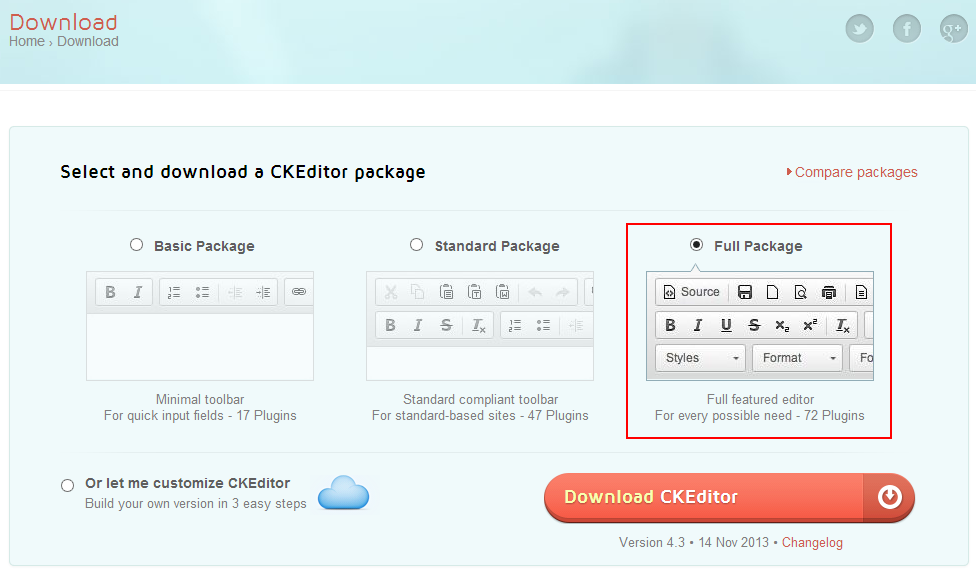
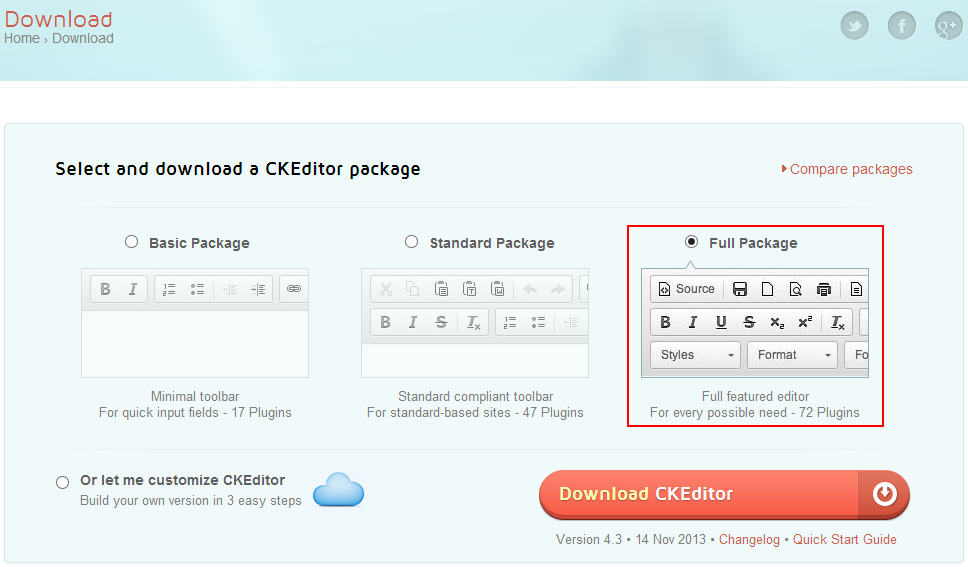
Screenshot and download link for Quick Start Guide.

diff --git a/guides/dev/installation/README.md b/guides/dev/installation/README.md
@@ -6,7 +6,7 @@ The aim of this article is to get you up and running with CKEditor in two minute
 
 Visit the official [CKEditor Download](http://ckeditor.com/download) site. For a complete editing experience choose the **Full Package** and click the **Download CKEditor** button to get the `.zip` installation file.
 
-<img src="guides/dev_installation/ckeditor_quick_start_download.png" alt="CKEditor Download site" width="780" height="460">
+<a href="http://ckeditor.com/download" target="_blank"><img src="guides/dev_installation/ckeditor_quick_start_download.png" alt="CKEditor Download site" width="774" height="454"></a>
 
 ## Unpacking
 
@@ -14,7 +14,7 @@ Unpack (extract) the downloaded `.zip` archive to the `ckeditor` directory in th
 
 ## Trying Out
 
-CKEditor comes with a collection of samples that you can try out to verify if the installation was successful as well as see some both basic and more advanced CKEditor usage scenarios.
+CKEditor comes with a collection of samples that you can try out to verify if the installation was successful as well as see some CKEditor usage scenarios, both basic and more advanced.
 
 Open the following page in the browser:
 `http://<your site>/ckeditor/samples/index.html`
